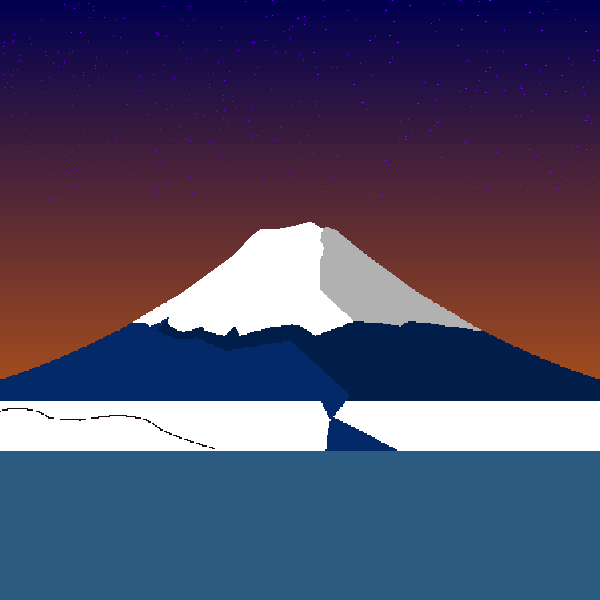
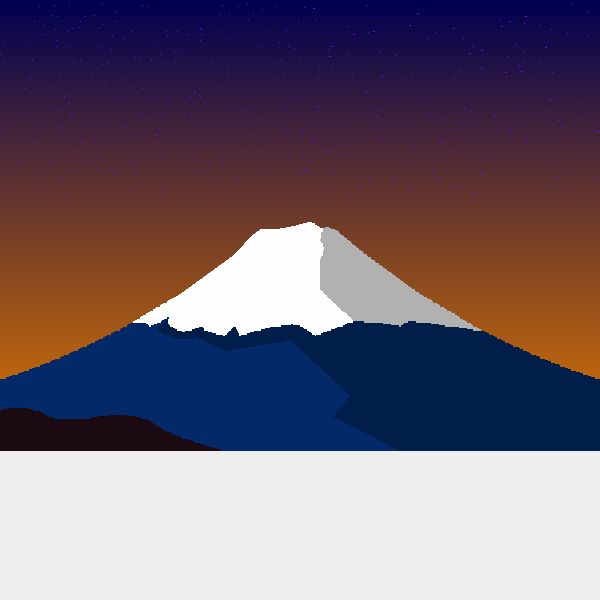
fix background

diff --git a/NewYear.java b/NewYear.java
@@ -160,7 +160,7 @@ public class NewYear extends JPanel implements MouseListener{
         drawCurve(g, 45, 415, 50, 420, 80, 420, 80, 420);
         drawCurve(g, 80, 420, 130, 410, 150, 420, 155, 425);
         drawCurve(g, 155, 425, 165, 435, 220, 450, 220, 450);
-        floodFill(g, 50, 435, ColorEnum.FUJI.getColor(), ColorEnum.LAND.getColor());
+        floodFill(g, 50, 435, ColorEnum.FUJI.getColor().brighter(), ColorEnum.LAND.getColor());
     }
 
     //==================================================================================
@@ -291,6 +291,38 @@ public class NewYear extends JPanel implements MouseListener{
                 return true;
         }
         return false;
+    }
+
+    private void gradientFill(Graphics g, int x1, int y1, int x2, int y2, Color startColor, Color endColor, char direction) {      
+        int sRColor = startColor.getRed();   int sGColor = startColor.getGreen(); int sBColor = startColor.getBlue();
+        int eRColor = endColor.getRed();     int eGColor = endColor.getGreen();   int eBColor = endColor.getBlue();
+        if (direction == 'H') {
+            if (x2 > x1) {
+                for (int i = x1; i <= x2; i++) {
+                    g.setColor(new Color((sRColor+i*(eRColor-sRColor)/(x2-x1)), (sGColor+i*(eGColor-sGColor)/(x2-x1)), (sBColor+i*(eBColor-sBColor)/(x2-x1))));
+                    drawLine(g,i, y1, i, y2);
+                }
+            }
+            else {
+                for (int i = x2; i <= x1; i++) {
+                    g.setColor(new Color((sRColor+i*(eRColor-sRColor)/(x1-x2)), (sGColor+i*(eGColor-sGColor)/(x1-x2)), (sBColor+i*(eBColor-sBColor)/(x1-x2))));
+                    drawLine(g,i, y1, i, y2);
+                }
+            }     
+        }
+        else if (direction == 'V') {
+            if (y2 > y1) {
+                for (int i = y1; i <= y2; i++) {
+                    g.setColor(new Color((sRColor+i*(eRColor-sRColor)/(y2-y1)), (sGColor+i*(eGColor-sGColor)/(y2-y1)), (sBColor+i*(eBColor-sBColor)/(y2-y1))));
+                    drawLine(g,x1, i, x2, i);
+                }
+            }
+            else {
+                for (int i = y2; i <= y1; i++) {
+                    g.setColor(new Color((sRColor+i*(eRColor-sRColor)/(y1-y2)), (sGColor+i*(eGColor-sGColor)/(y1-y2)), (sBColor+i*(eBColor-sBColor)/(y1-y2))));
+                }
+            }  
+        }
     }
 
     private void fillTriangle(Graphics g, int[] x, int[] y){
